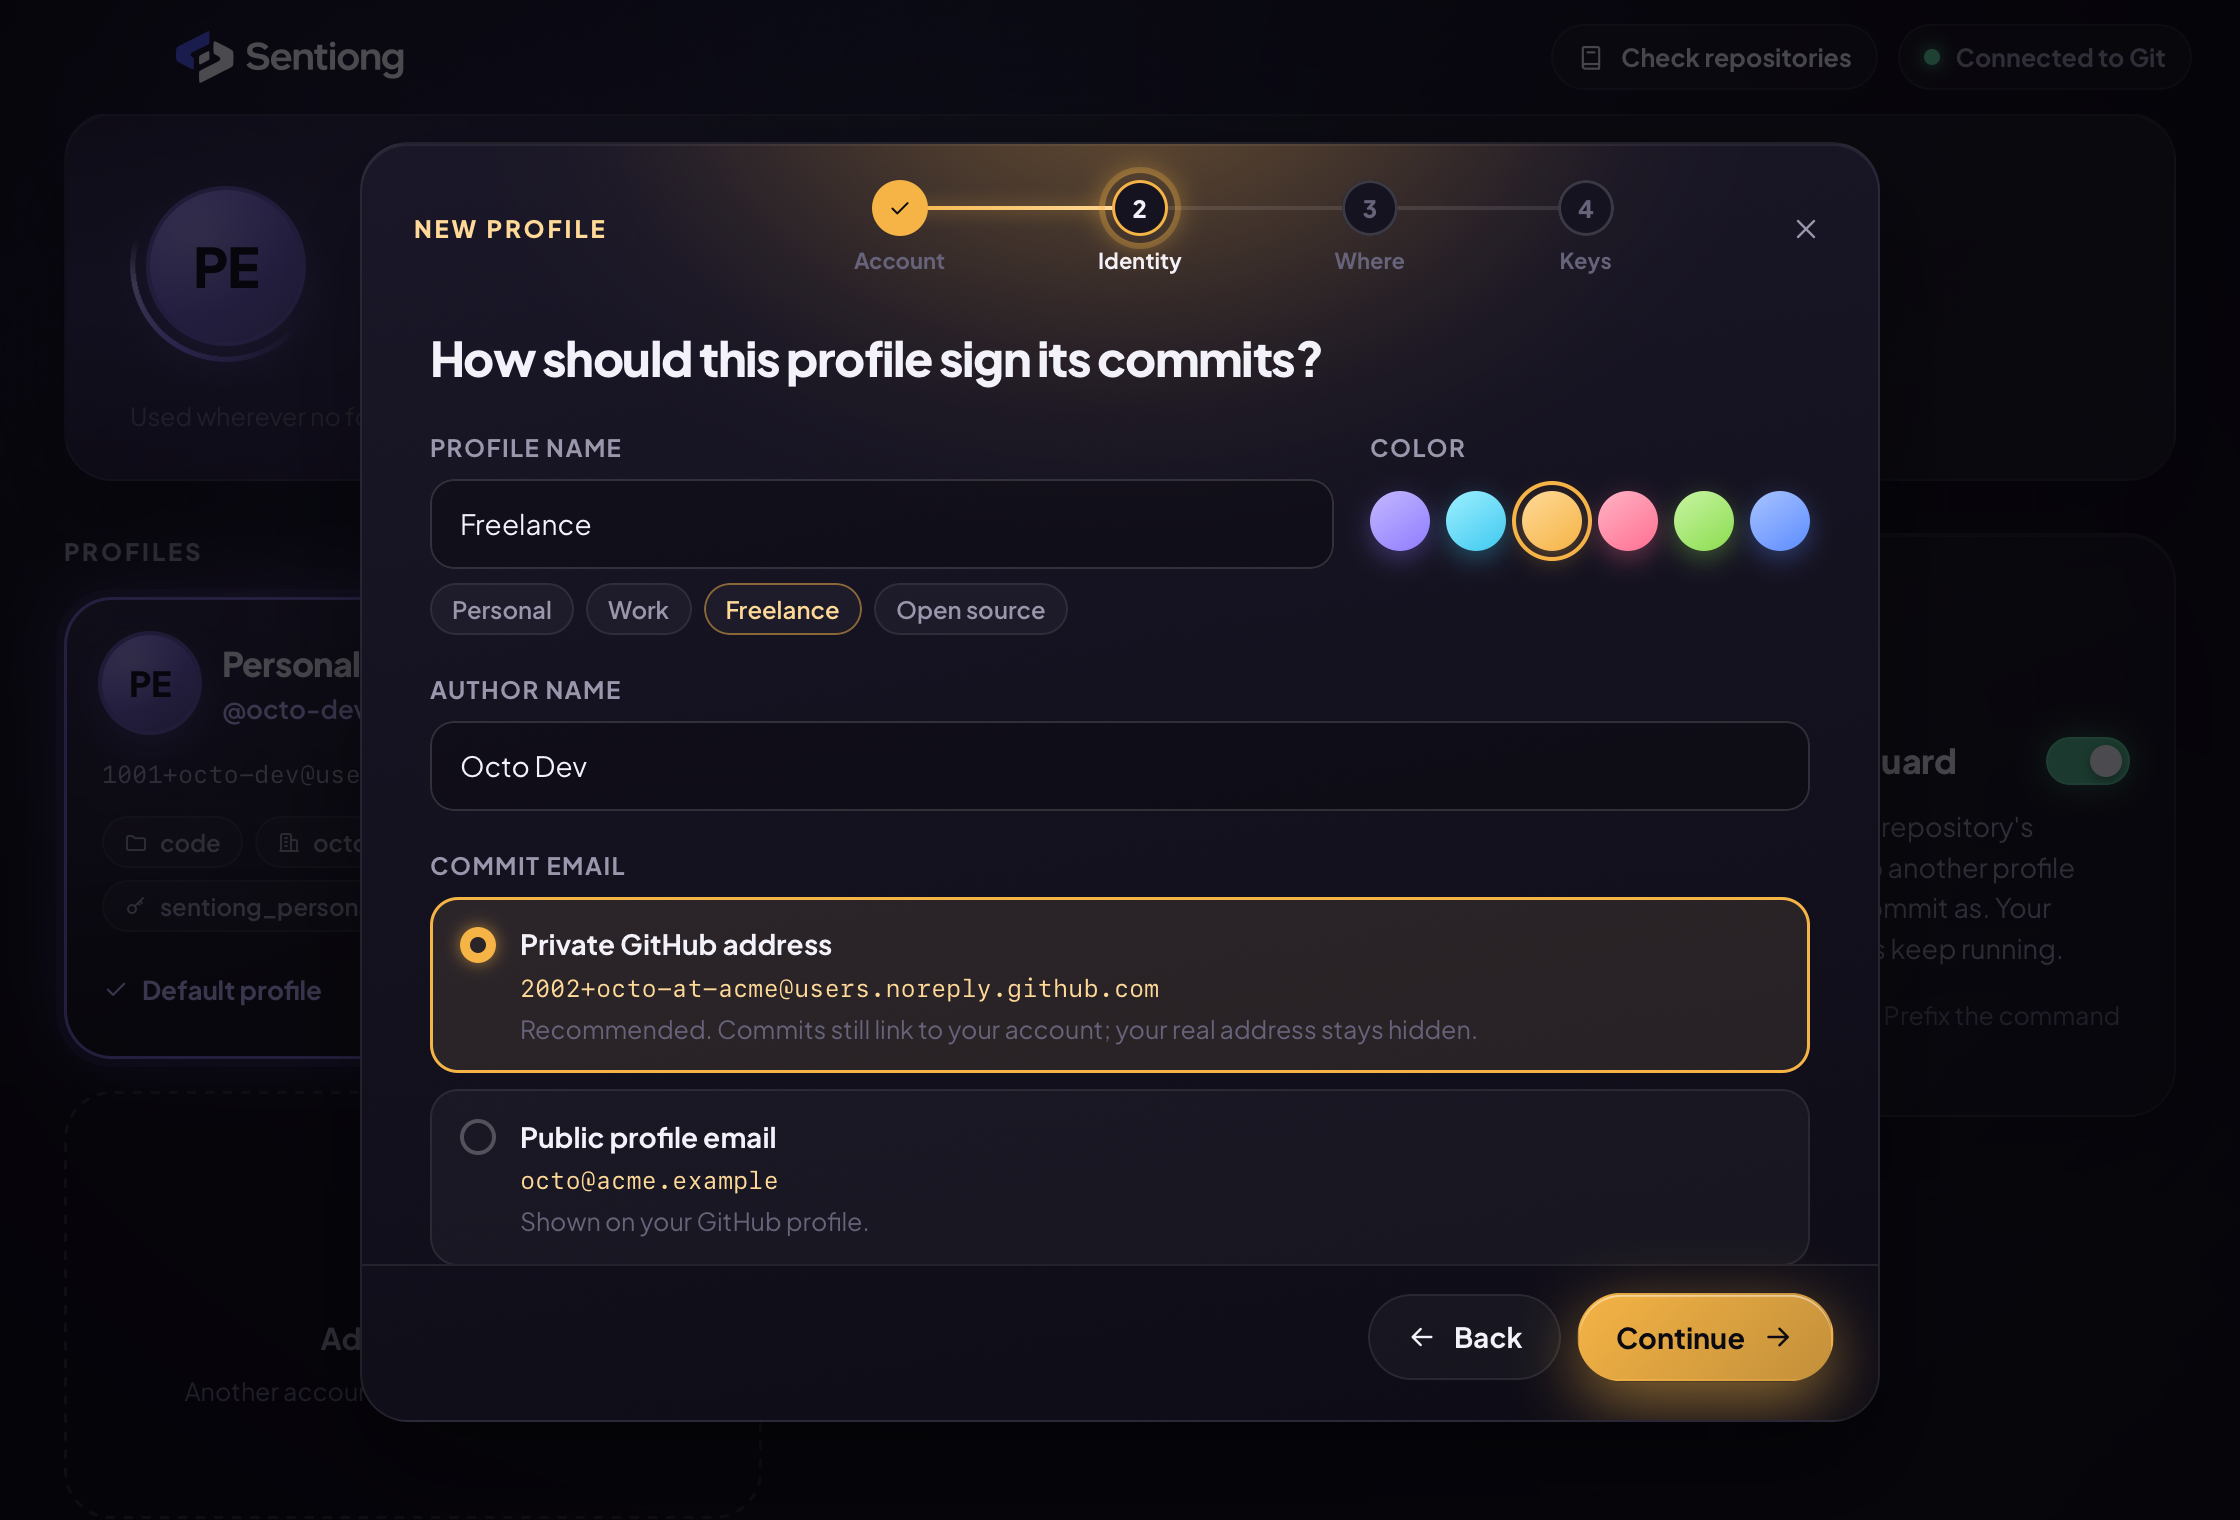
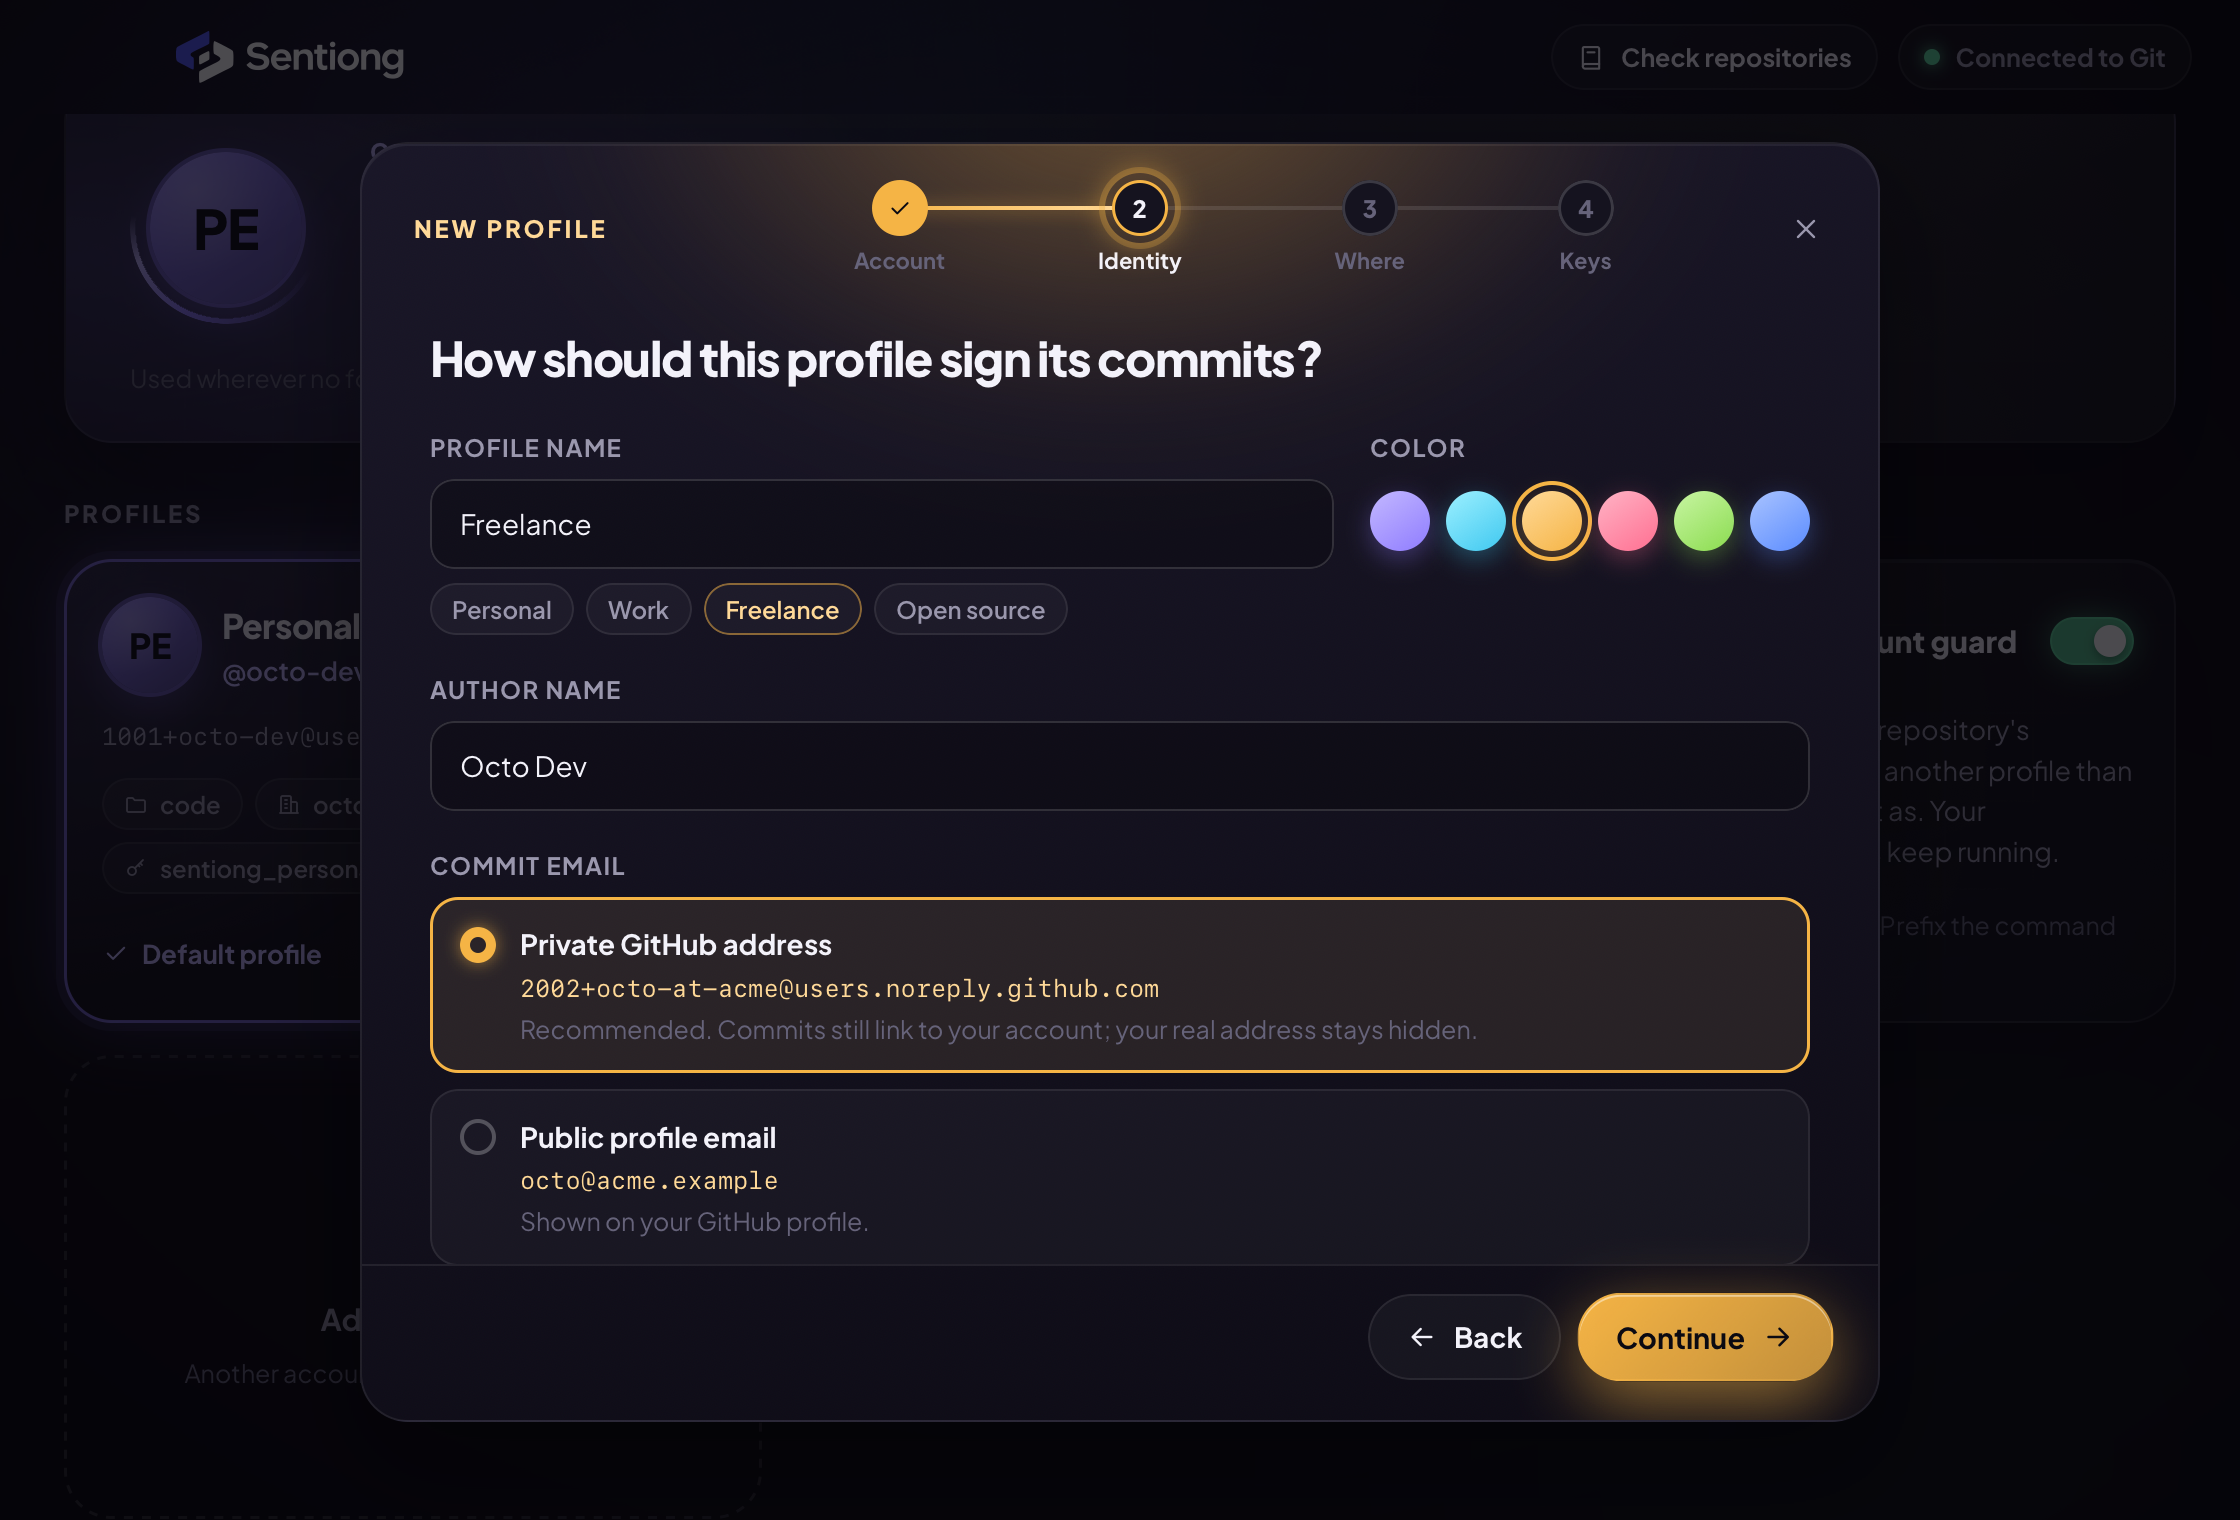
feat(dashboard): improve guard card and update docs screenshots
restructure guard card to integrate visual elements into header
add protection section heading to dashboard sidebar
adjust sizing and spacing for consistent dashboard card alignment
update four documentation screenshots to match the new ui

diff --git a/src/styles/dashboard.css b/src/styles/dashboard.css
@@ -50,6 +50,11 @@
   font-weight: 600;
 }
 
+/* Profile cards and the guard card share a height so the row lines up. */
+.dashboard__columns {
+  --card-min-height: 232px;
+}
+
 .section-title {
   margin: 0 0 14px;
   color: var(--text-muted);
@@ -152,7 +157,7 @@
   display: flex;
   flex-direction: column;
   gap: 12px;
-  min-height: 214px;
+  min-height: var(--card-min-height);
   padding: 18px;
   border: 1px solid var(--glass-border);
   border-radius: var(--radius-lg);
@@ -271,7 +276,7 @@
   align-items: center;
   justify-content: center;
   gap: 6px;
-  min-height: 214px;
+  min-height: var(--card-min-height);
   border: 1.5px dashed rgb(255 255 255 / 14%);
   border-radius: var(--radius-lg);
   background: transparent;
@@ -312,7 +317,10 @@
 
 .guard-card {
   position: relative;
-  padding: 22px;
+  display: flex;
+  flex-direction: column;
+  min-height: var(--card-min-height);
+  padding: 18px 20px 20px;
   overflow: hidden;
 }
 
@@ -320,18 +328,18 @@
   position: relative;
   display: grid;
   place-items: center;
-  width: 64px;
-  height: 64px;
-  margin-bottom: 14px;
+  flex: none;
+  width: 44px;
+  height: 44px;
 }
 
 .guard-card__shield {
   position: relative;
   display: grid;
   place-items: center;
-  width: 56px;
-  height: 56px;
-  border-radius: 18px;
+  width: 40px;
+  height: 40px;
+  border-radius: 13px;
   background: var(--glass-strong);
   color: var(--text-faint);
   transition:
@@ -348,9 +356,9 @@
 
 .guard-card__sonar {
   position: absolute;
-  inset: 4px;
+  inset: 2px;
   border: 1.5px solid rgb(95 224 160 / 55%);
-  border-radius: 20px;
+  border-radius: 14px;
   opacity: 0;
 }
 
@@ -365,19 +373,19 @@
 .guard-card__header {
   display: flex;
   align-items: center;
-  justify-content: space-between;
-  gap: 12px;
+  gap: 10px;
   --accent-rgb: 95 224 160;
 }
 
 .guard-card__header h2 {
+  flex: 1;
   margin: 0;
-  font-size: 17px;
+  font-size: 15px;
   font-weight: 800;
 }
 
 .guard-card__text {
-  margin: 10px 0 14px;
+  margin: 12px 0;
   color: var(--text-muted);
   font-size: 13.5px;
 }
@@ -385,7 +393,7 @@
 .guard-card__note {
   display: flex;
   gap: 8px;
-  margin: 0;
+  margin: auto 0 0;
   color: var(--text-faint);
   font-size: 12.5px;
 }

diff --git a/src/components/dashboard/GuardCard.tsx b/src/components/dashboard/GuardCard.tsx
@@ -19,19 +19,18 @@ export function GuardCard({ guard, onToggle }: GuardCardProps) {
       animate={{ opacity: 1, x: 0 }}
       transition={{ type: "spring", stiffness: 120, damping: 18, delay: 0.2 }}
     >
-      <div className="guard-card__visual" aria-hidden="true">
-        <span className="guard-card__sonar" />
-        <span className="guard-card__sonar guard-card__sonar--late" />
-        <motion.span
-          className="guard-card__shield"
-          animate={guard.enabled ? { scale: [1, 1.08, 1] } : { scale: 1 }}
-          transition={{ duration: 2.4, repeat: guard.enabled ? Infinity : 0, ease: "easeInOut" }}
-        >
-          <ShieldIcon size={30} />
-        </motion.span>
-      </div>
-
       <div className="guard-card__header">
+        <div className="guard-card__visual" aria-hidden="true">
+          <span className="guard-card__sonar" />
+          <span className="guard-card__sonar guard-card__sonar--late" />
+          <motion.span
+            className="guard-card__shield"
+            animate={guard.enabled ? { scale: [1, 1.08, 1] } : { scale: 1 }}
+            transition={{ duration: 2.4, repeat: guard.enabled ? Infinity : 0, ease: "easeInOut" }}
+          >
+            <ShieldIcon size={22} />
+          </motion.span>
+        </div>
         <h2>Wrong-account guard</h2>
         <Toggle checked={guard.enabled} onChange={onToggle} label="Wrong-account guard" disabled={blocked} />
       </div>

diff --git a/src/components/dashboard/DashboardScreen.tsx b/src/components/dashboard/DashboardScreen.tsx
@@ -101,6 +101,7 @@ export function DashboardScreen({
             </div>
           </section>
           <aside className="dashboard__side">
+            <h2 className="section-title">Protection</h2>
             <GuardCard guard={snapshot.guard} onToggle={onToggleGuard} />
           </aside>
         </div>
